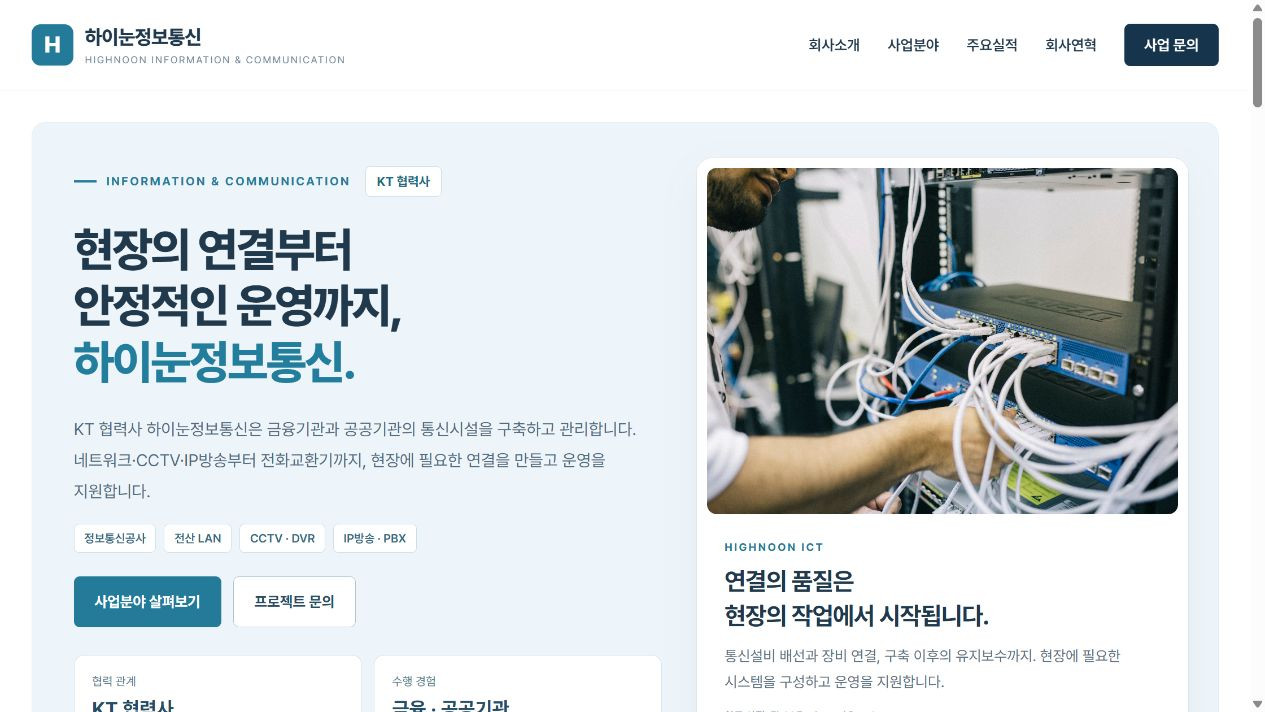
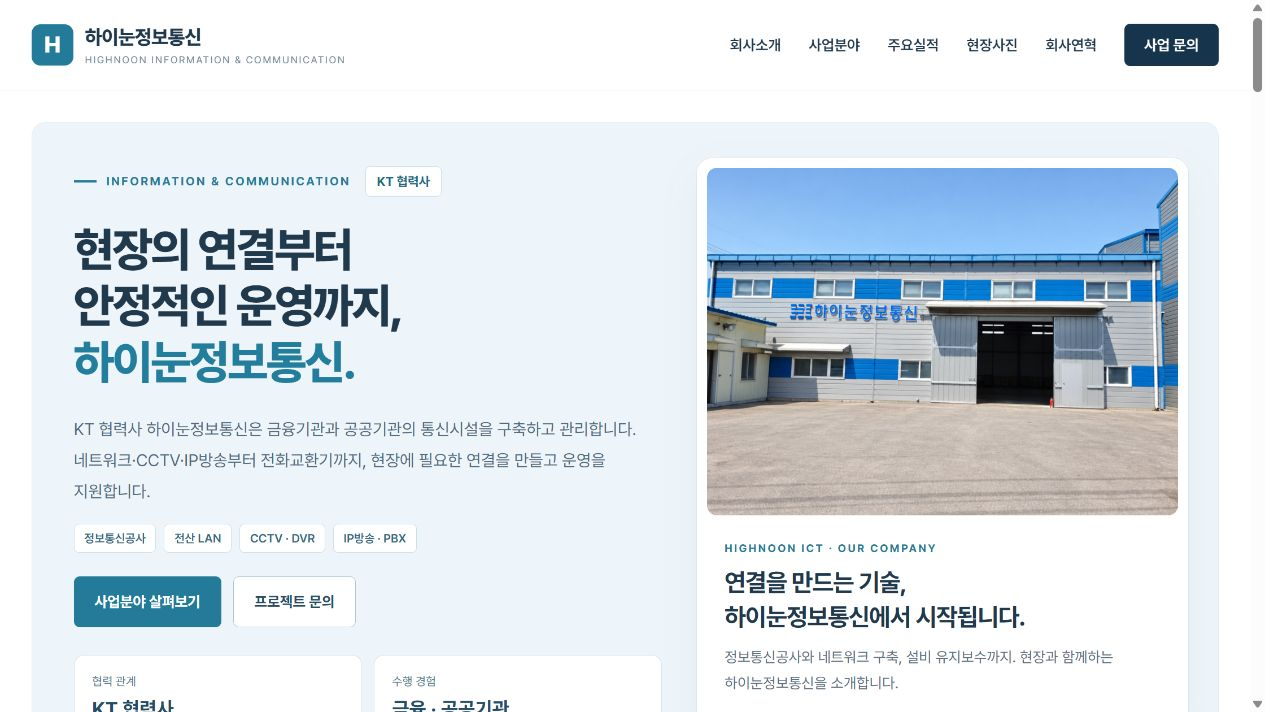
Show company building photo with parked vehicles removed

diff --git a/index.html b/index.html
@@ -26,6 +26,7 @@ header{position:sticky;top:0;z-index:40;background:rgba(255,255,255,.97);backdro
 .hero{grid-template-columns:1.04fr .96fr;min-height:620px}.hero-copy{padding-right:30px}.hero-media{min-width:0;align-self:center;padding:34px 34px 34px 0}.hero-visual{margin:0;height:auto;background:#fff;border:1px solid #dce7ed;border-radius:16px;padding:10px;box-shadow:0 14px 35px rgba(35,80,108,.06)}.hero-visual img{height:300px;border-radius:10px;object-position:58% center}.hero-visual:after{display:none}.visual-label{position:static;background:#fff;border:0;border-radius:0;padding:22px 17px 18px;letter-spacing:0;text-align:left;font-size:15px;color:var(--muted)}.visual-eyebrow{font-size:11px;color:#287a96;font-weight:700;letter-spacing:1.8px}.visual-label strong{font-size:23px;line-height:1.4;letter-spacing:-.7px;margin-top:7px;font-weight:700;color:var(--ink)}.visual-label p{font-size:14px;line-height:1.75;margin-top:10px}.hero-highlights{display:grid;grid-template-columns:1fr 1fr;gap:14px;margin-top:16px}.hero-highlights div{background:#fff;border:1px solid #dce7ed;border-radius:10px;padding:17px 19px}.hero-highlights span{display:block;color:#6a8090;font-size:12px}.hero-highlights strong{display:block;font-size:17px;font-weight:650;margin-top:5px;color:#2c5871}@media(max-width:1050px){.hero-media{padding-right:24px}.hero-visual img{height:260px}.hero-highlights div{padding:14px}.hero-highlights strong{font-size:15px}.visual-label strong{font-size:21px}}@media(max-width:767px){.hero{grid-template-columns:1fr;min-height:auto}.hero-copy{padding:33px 24px 28px}.hero-media{padding:0 19px 22px}.hero-visual{height:auto;padding:8px;border-radius:13px}.hero-visual img{height:220px;border-radius:8px}.visual-label{padding:20px 13px 15px;font-size:14px}.visual-label strong{font-size:21px}.visual-label p{font-size:14px}.hero-highlights{gap:10px;margin-top:12px}.hero-highlights div{padding:14px 12px}.hero-highlights strong{font-size:15px}}
 .wrap{width:min(1440px,calc(100% - 64px))}.hero{grid-template-columns:1.12fr .88fr;min-height:780px;background:#eef5fa}.hero-copy{padding:44px 35px 40px 42px}.hero-kicker{flex-direction:row;align-items:center;gap:15px}.hero h1{font-size:clamp(40px,3.7vw,62px);line-height:1.2;margin-top:25px;letter-spacing:-2px}.hero-desc{max-width:610px;font-size:17px;margin-top:24px;line-height:1.85}.hero-service-tags{display:flex;flex-wrap:wrap;gap:8px;margin-top:17px}.hero-service-tags span{padding:5px 10px;border:1px solid #cbdee8;border-radius:5px;background:#fff;color:#366a82;font-size:12px;font-weight:600}.hero-actions{margin-top:24px}.hero-pillars{display:grid;grid-template-columns:1fr 1fr;gap:12px;margin-top:28px}.hero-pillars>div{padding:17px 18px;background:#fff;border:1px solid #d0e1eb;border-radius:10px}.hero-pillars>div:last-child{grid-column:1/-1;padding:15px 18px}.hero-pillars span{display:block;color:#52778b;font-size:12px}.hero-pillars strong{display:block;font-size:20px;line-height:1.4;margin-top:5px;color:#264d66;font-weight:700}.hero-pillars p{font-size:13px;color:#637d8e;margin-top:5px}.hero-foot{margin-top:20px}.hero-media{align-self:start;padding:35px 30px 30px 0}.hero-visual img{height:350px;object-position:47% center}.visual-label{padding:21px 18px 20px}.visual-label strong{font-size:25px;line-height:1.4}.visual-label p{font-size:15px;line-height:1.75;max-width:490px}.photo-credit{display:inline-block;font-size:11px;color:#708694;margin-top:13px;text-decoration:underline;text-underline-offset:3px}.hero-highlights{gap:12px}.hero-highlights div{padding:22px 18px}.hero-highlights strong{font-size:19px;line-height:1.45}.section{padding:82px 0}@media(max-width:1050px){.hero-copy{padding:34px 25px}.hero h1{font-size:40px}.hero-kicker .eyebrow{font-size:10px;letter-spacing:1px}.hero-desc{font-size:16px}.hero-media{padding:28px 22px 28px 0}.hero-visual img{height:310px}.hero-pillars strong{font-size:18px}.hero-highlights strong{font-size:16px}.visual-label strong{font-size:22px}}@media(max-width:767px){.wrap{width:calc(100% - 32px)}.hero{grid-template-columns:1fr;min-height:auto}.hero-copy{padding:28px 22px}.hero-kicker{flex-direction:column;align-items:start;gap:11px}.hero h1{font-size:35px;letter-spacing:-1.5px;line-height:1.25;margin-top:20px}.hero-desc{font-size:15px;margin-top:20px}.hero-service-tags{gap:6px}.hero-service-tags span{font-size:11px;padding:4px 7px}.hero-pillars{gap:10px;margin-top:24px}.hero-pillars>div{padding:14px 12px}.hero-pillars>div:last-child{padding:14px 12px}.hero-pillars strong{font-size:17px}.hero-pillars p{font-size:12px}.hero-pillars span{font-size:11px}.hero-media{padding:0 18px 23px}.hero-visual img{height:235px}.visual-label{padding:19px 12px}.visual-label strong{font-size:23px}.visual-label p{font-size:14px}.hero-highlights div{padding:17px 13px}.hero-highlights strong{font-size:16px}.section{padding:64px 0}}
 .fieldwork{background:#fff}.fieldwork-photo{margin:0;border:1px solid #dce7ed;border-radius:14px;overflow:hidden;background:#f7fafc}.fieldwork-photo img{width:100%;height:auto;max-height:700px;object-fit:contain;background:#f2f6f8}.fieldwork-photo figcaption{display:flex;align-items:center;justify-content:space-between;gap:30px;padding:25px 30px;border-top:1px solid #dce7ed}.fieldwork-label{display:block;font-size:12px;font-weight:600;color:#2c7b98}.fieldwork-photo strong{display:block;font-size:22px;font-weight:650;color:#254c65;margin-top:6px}.fieldwork-photo figcaption p{font-size:15px;color:#5b7082;max-width:450px}@media(max-width:1050px){.nav-links{gap:14px;font-size:14px}}@media(max-width:767px){.fieldwork-photo{border-radius:10px}.fieldwork-photo figcaption{display:block;padding:20px}.fieldwork-photo strong{font-size:20px}.fieldwork-photo figcaption p{font-size:14px;margin-top:13px}}
+.hero-visual img.company-photo{height:auto;object-fit:contain;object-position:center}
   </style>
 </head>
 <body>
@@ -39,7 +40,7 @@ header{position:sticky;top:0;z-index:40;background:rgba(255,255,255,.97);backdro
     <div class="wrap">
       <section class="hero" aria-labelledby="hero-title">
         <div class="hero-copy"><div class="hero-kicker"><div class="eyebrow">INFORMATION & COMMUNICATION</div><span class="partner-badge">KT 협력사</span></div><h1 id="hero-title">현장의 연결부터<br>안정적인 운영까지,<br><span>하이눈정보통신.</span></h1><p class="hero-desc">KT 협력사 하이눈정보통신은 금융기관과 공공기관의 통신시설을 구축하고 관리합니다. 네트워크·CCTV·IP방송부터 전화교환기까지, 현장에 필요한 연결을 만들고 운영을 지원합니다.</p><div class="hero-service-tags"><span>정보통신공사</span><span>전산 LAN</span><span>CCTV · DVR</span><span>IP방송 · PBX</span></div><div class="hero-actions"><a class="btn btn-light" href="#business">사업분야 살펴보기</a><a class="btn btn-outline" href="#contact">프로젝트 문의</a></div><div class="hero-pillars"><div><span>협력 관계</span><strong>KT 협력사</strong><p>통신시설 구축과 유지보수</p></div><div><span>수행 경험</span><strong>금융 · 공공기관</strong><p>기관별 업무 환경을 이해하는 기술</p></div><div><span>사업의 범위</span><strong>네트워크 · 영상 · 방송 · 전화설비</strong><p>설비 구축에서 운영 지원까지</p></div></div><p class="hero-foot">SINCE 1994 &nbsp; / &nbsp; BUSAN, KOREA</p></div>
-        <div class="hero-media"><figure class="hero-visual"><img src="assets/telecom-construction.jpg" alt="기술자가 네트워크 장비에 통신 케이블을 연결하는 실제 작업 장면" decoding="async" fetchpriority="high"><figcaption class="visual-label"><span class="visual-eyebrow">HIGHNOON ICT</span><strong>연결의 품질은<br>현장의 작업에서 시작됩니다.</strong><p>통신설비 배선과 장비 연결, 구축 이후의 유지보수까지. 현장에 필요한 시스템을 구성하고 운영을 지원합니다.</p><a class="photo-credit" href="https://www.pexels.com/photo/electronics-engineer-fixing-cables-on-server-442150/" target="_blank" rel="noopener noreferrer">참고 사진: Field Engineer / Pexels</a></figcaption></figure><div class="hero-highlights"><div><span>구축 역량</span><strong>통신 · 네트워크</strong></div><div><span>운영 지원</span><strong>설비 유지보수</strong></div></div></div>
+        <div class="hero-media"><figure class="hero-visual"><img class="company-photo" src="assets/company-building-clean.png" alt="주차 차량을 제거한 하이눈정보통신 회사 건물 외관 사진" decoding="async" fetchpriority="high"><figcaption class="visual-label"><span class="visual-eyebrow">HIGHNOON ICT · OUR COMPANY</span><strong>연결을 만드는 기술,<br>하이눈정보통신에서 시작됩니다.</strong><p>정보통신공사와 네트워크 구축, 설비 유지보수까지. 현장과 함께하는 하이눈정보통신을 소개합니다.</p></figcaption></figure><div class="hero-highlights"><div><span>구축 역량</span><strong>통신 · 네트워크</strong></div><div><span>운영 지원</span><strong>설비 유지보수</strong></div></div></div>
       </section>
       <div class="trust" aria-label="기업 핵심 정보"><div class="trust-item"><strong>1994.12</strong><span>기업 설립</span></div><div class="trust-item"><strong>정보통신공사</strong><span>설계 · 시공 · 유지보수</span></div><div class="trust-item"><strong>금융 · 공공</strong><span>기관별 통신시설 구축 경험</span></div><div class="trust-item"><strong>KT 협력사</strong><span>통신 인프라 구축 · 유지보수</span></div></div>
       <aside class="partner-panel" aria-labelledby="partner-title"><div><span class="partner-caption">협력사 소개</span><h2 id="partner-title">KT 협력사, 하이눈정보통신</h2><p>현장에 필요한 통신시설을 구축하고, 안정적인 운영과 유지보수를 지원합니다.</p></div><a class="partner-link" href="https://corp.kt.com/html/intro/main.html" target="_blank" rel="noopener noreferrer">KT 공식 기업소개 보기<span class="new-tab-note">새 창으로 열기</span></a></aside>

diff --git a/README.md b/README.md
@@ -12,7 +12,7 @@ KT 협력사 하이눈정보통신의 정보통신공사, 네트워크, CCTV, IP
 ## 홈페이지 구성
 
 - [회사소개 및 홈페이지 파일](./index.html)
-- [메인 통신설비 작업 사진](./assets/telecom-construction.jpg)
+- [메인 회사 외관 사진](./assets/company-building-clean.png)
 - [네트워크 유지보수 이미지](./assets/network-maintenance.jpg)
 - [사용자 제공 현장사진](./assets/field-safety-meeting.png)
 - [내용 출처와 제작메모](./제작메모.txt)
@@ -20,15 +20,14 @@ KT 협력사 하이눈정보통신의 정보통신공사, 네트워크, CCTV, IP
 ## 자료 기준
 
 회사 기본정보, 연락처, 연혁과 실적은 제공된 회사 지명원을 기준으로 작성했습니다.
-메인 사진은 Field Engineer가 Pexels에 공개한 통신설비 작업 사진입니다. 하이눈정보통신의 실제 직원 또는 현장 사진을 의미하지 않습니다. 유지보수 이미지는 AI 생성 이미지입니다.
+메인 사진은 사용자가 제공한 하이눈정보통신 회사 외관 사진에서 AI 편집으로 차량을 제거한 이미지입니다. 현장사진은 사용자 제공 사진이며, 유지보수 이미지는 AI 생성 이미지입니다.
 H 문자 표식은 공식 로고를 대신한 임시 표식입니다.
 원본 PDF와 개인별 훈련 정보는 저장소에 포함하지 않습니다.
 
 수정일: 2026-10-02
 KT 기업소개: https://corp.kt.com/html/intro/main.html
 
-사진 출처: https://www.pexels.com/photo/electronics-engineer-fixing-cables-on-server-442150/
-사용조건: https://www.pexels.com/license/
+메인 사진 출처: 사용자 제공 회사 외관 사진 (차량 제거 편집)
 
 ## 관련 링크
 
